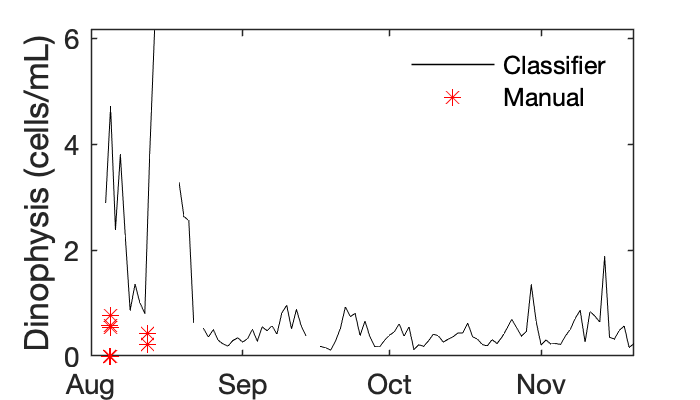
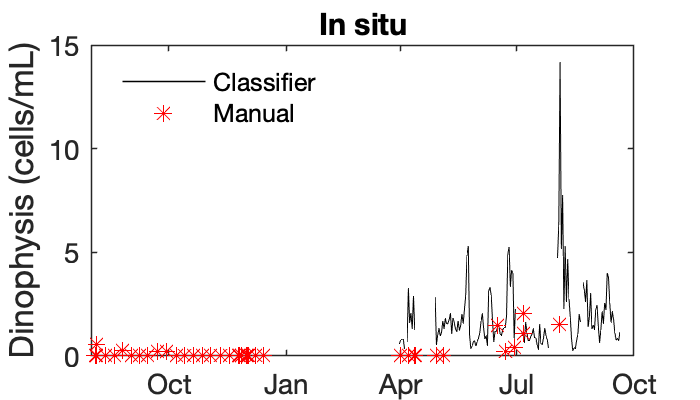
corrected discrete samples files

diff --git a/NOAA/BuddInlet/plot_manual_vs_class_Dinophysis.m b/NOAA/BuddInlet/plot_manual_vs_class_Dinophysis.m
@@ -5,37 +5,64 @@ clear;
 fprint=0;
 
 filepath = '~/Documents/MATLAB/bloom-baby-bloom/';
-load([filepath 'IFCB-Data/BuddInlet/manual/count_class_manual_2021'],...
-    'class2use','ml_analyzed','matdate','classcount');
-load([filepath 'IFCB-Data/BuddInlet/class/summary_biovol_allTB2021'],...
-    'class2useTB','ml_analyzedTB','mdateTB','classcountTB');
+load([filepath 'IFCB-Data/BuddInlet/manual/count_class_manual'],...
+   'class2use','ml_analyzed','matdate','classcount','filecomment');
+load([filepath 'IFCB-Data/BuddInlet/class/summary_biovol_allTB2022'],...
+    'class2useTB','ml_analyzedTB','mdateTB','classcountTB','filecommentTB');
 load([filepath 'NOAA/BuddInlet/Data/DinophysisMicroscopy'],'T');
 addpath(genpath(filepath));
 addpath(genpath('~/Documents/MATLAB/ifcb-analysis/')); 
 
-dt=datetime(matdate,'ConvertFrom','datenum');
+%%%% separate discrete samples (data with file comment)
+idx=contains(filecommentTB,' BS_trigger'); ml_analyzedBS=ml_analyzedTB(idx); mdateBS=mdateTB(idx); classcountBS=classcountTB(idx,:);
+idx=contains(filecommentTB,' FL_trigger'); ml_analyzedFL=ml_analyzedTB(idx); mdateFL=mdateTB(idx); classcountFL=classcountTB(idx,:);
 
-% plot Dinophysis manual vs classifier
-figure('Units','inches','Position',[1 1 3.5 2],'PaperPositionMode','auto'); 
+% delete all discrete from in situ data
+idx=~strcmp(filecommentTB,{' '}); %classifier files
+ml_analyzedTB(idx)=[]; mdateTB(idx)=[]; filecommentTB(idx)=[]; classcountTB(idx,:)=[];
 
-xax1=datetime('2021-08-01'); xax2=datetime('2021-11-20');     
+idx=~strcmp(filecomment,{' '}); %manual files
+ml_analyzed(idx)=[]; matdate(idx)=[]; classcount(idx,:)=[];
 
-idc=(strcmp('D_acuminata,D_acuta,D_caudata,D_fortii,D_norvegica,D_odiosa,D_parva,D_rotundata,D_tripos,Dinophysis',class2useTB));
+%%%% prepare for plotting
+% classifier data
+idc=(strcmp('Dinophysis,Dinophysis_acuminata,Dinophysis_acuta,Dinophysis_caudata,Dinophysis_fortii,Dinophysis_norvegica,Dinophysis_odiosa,Dinophysis_parva,Dinophysis_rotundata,Dinophysis_tripos',class2useTB));
 %classifier=(classcountTB(:,idc)./ml_analyzedTB);
-
 [ mdate_mat, classifier, ~, ~ ] = timeseries2ydmat( mdateTB, (classcountTB(:,idc)./ml_analyzedTB) );
 dtTB=datetime(mdate_mat,'ConvertFrom','datenum');
 
+% discrete classifier data
+[ mdateBS, BS, ~, ~ ] = timeseries2ydmat( mdateBS, (classcountBS(:,idc)./ml_analyzedBS) );
+dtBS=datetime(mdateBS,'ConvertFrom','datenum');
+
+[ mdateFL, FL, ~, ~ ] = timeseries2ydmat( mdateFL, (classcountFL(:,idc)./ml_analyzedFL) );
+dtFL=datetime(mdateFL,'ConvertFrom','datenum');
+
+% manual data
 idm=find(ismember(class2use,{'D_acuminata' 'D_acuta' 'D_caudata' 'D_fortii'...
     'D_norvegica' 'D_odiosa' 'D_parva' 'D_rotundata' 'D_tripos' 'Dinophysis'}));
 manual=sum(classcount(:,idm),2)./ml_analyzed;
+dt=datetime(matdate,'ConvertFrom','datenum');
+
+%%%% plot Dinophysis manual vs classifier
+figure('Units','inches','Position',[1 1 3.5 2],'PaperPositionMode','auto'); 
+
+xax1=datetime('2021-08-01'); xax2=datetime('2022-10-01');     
 
 plot(dtTB,classifier,'k-',dt,manual,'r*'); hold on;
+    set(gca,'xlim',[xax1 xax2])
+    datetick('x', 'mmm', 'keeplimits');    
+    ylabel('Dinophysis (cells/mL)','fontsize',12);
+    legend('Classifier','Manual','Location','NW'); legend boxoff;
+    title('In situ')
 
-set(gca,'xlim',[xax1 xax2])
-datetick('x', 'mmm', 'keeplimits');    
-ylabel('Dinophysis (cells/mL)','fontsize',12);
-legend('Classifier','Manual'); legend boxoff;
+% subplot(2,1,2); %discrete
+% plot(dtBS,BS,'bs',dtFL,FL,'m^'); hold on;
+%     set(gca,'xlim',[xax1 xax2],'ylim',[0 17])
+%     datetick('x', 'mmm', 'keeplimits');    
+%     ylabel('Dinophysis (cells/mL)','fontsize',12);
+%     legend('BS','FL','Location','NW'); legend boxoff;
+%     title('Discrete classified samples')
 
 set(gcf,'color','w');
 print(gcf,'-dpng','-r200',[filepath 'NOAA/BuddInlet/Figs/ManualvsClassifer.png']);

diff --git a/IFCB-Tools/find_discrete_samples_hdr.m b/IFCB-Tools/find_discrete_samples_hdr.m
@@ -1,14 +1,14 @@
-function [ ] = find_discrete_samples( datapath, summary_dir)
-%function [ ] = find_discrete_samples( datapath, summary_dir)
+function [ ] = find_discrete_samples_hdr( datapath, summarydir)
+%function [ ] = find_discrete_samples( datapath, summarydir)
 %
 % finds discrete samples that have labels BS_trigger, Fl_trigger or FL_trigger
 % excludes data D20220518T190328_IFCB150 through  D20220520T163514_IFCB150
 % 
 % Alexis D. Fischer, NOAA, June 2022
-%%
+%
 %Example inputs:
-datapath = 'C:\SFTP-BuddInlet\'; %where to access data (hdr files)
-summarydir='C:\Users\ifcbuser\Documents\GitHub\bloom-baby-bloom\IFCB-Data\BuddInlet\';
+% datapath = 'C:\SFTP-BuddInlet\'; %where to access data (hdr files)
+% summarydir='C:\Users\ifcbuser\Documents\GitHub\bloom-baby-bloom\IFCB-Data\BuddInlet\';
 
 addpath(genpath(datapath)); % add new data to search path
 addpath(genpath(summarydir)); % add new data to search path
